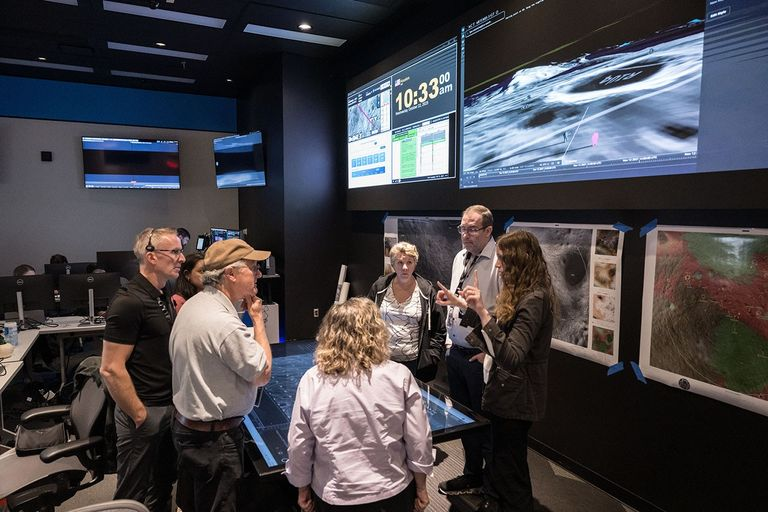
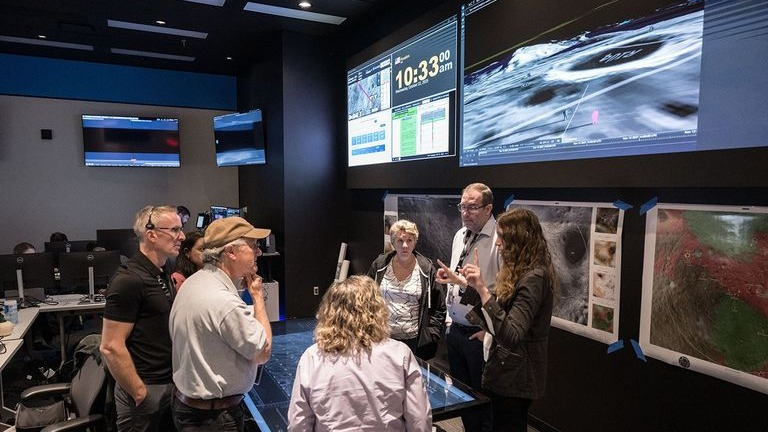
Added new people, linkedin button, buttons on front page slider, rounded overlay, fixed bio's

diff --git a/CSS/style.css b/CSS/style.css
@@ -1076,6 +1076,63 @@ ul {
     z-index: 1;
 }
 
+.hero-social {
+    position: absolute;
+    top: 20px;
+    left: 20px;
+    z-index: 3;
+    display: flex;
+    gap: 10px;
+    align-items: center;
+}
+
+.hero-social-link {
+    display: inline-flex;
+    align-items: center;
+    gap: 8px;
+    padding: 8px 12px;
+    border-radius: 999px;
+    background: rgba(0, 36, 84, 0.58);
+    border: 1px solid rgba(255, 255, 255, 0.18);
+    box-shadow: 0 10px 22px rgba(0, 0, 0, 0.14);
+    backdrop-filter: blur(8px);
+    -webkit-backdrop-filter: blur(8px);
+    color: var(--white);
+    text-decoration: none;
+    font-family: var(--font-display);
+    font-weight: 700;
+    font-size: 0.9rem;
+    line-height: 1;
+    transition: transform 0.2s ease, background 0.2s ease, border-color 0.2s ease;
+}
+
+.hero-social-link svg {
+    width: 16px;
+    height: 16px;
+    fill: currentColor;
+    flex: 0 0 auto;
+}
+
+.hero-social-link:hover,
+.hero-social-link:focus-visible {
+    transform: translateY(-1px);
+    background: rgba(0, 36, 84, 0.74);
+    border-color: rgba(255, 255, 255, 0.28);
+}
+
+.hero-social-link-donate {
+    display: none;
+    background: var(--nau-gold);
+    border-color: color-mix(in srgb, var(--nau-gold) 78%, var(--white));
+    color: var(--nau-blue);
+}
+
+.hero-social-link-donate:hover,
+.hero-social-link-donate:focus-visible {
+    background: color-mix(in srgb, var(--nau-gold) 86%, var(--white));
+    border-color: color-mix(in srgb, var(--nau-gold) 90%, var(--white));
+}
+
 .slide-content {
     position: absolute;
     bottom: 0;
@@ -1180,6 +1237,15 @@ ul {
         padding-bottom: 110px;
     }
 
+    .hero-social {
+        top: 14px;
+        left: 50%;
+        transform: translateX(-50%);
+        flex-wrap: wrap;
+        justify-content: center;
+        max-width: calc(100% - 32px);
+    }
+
     .slide-content .container {
         display: flex;
         justify-content: center;
@@ -1190,7 +1256,7 @@ ul {
         width: min(88vw, 720px);
         max-width: calc(100% - 32px);
         padding: 14px 20px 18px;
-        border-radius: 0 0 24px 24px;
+        border-radius: 24px;
         background: rgba(0, 36, 84, 0.52);
         text-align: center;
     }
@@ -1237,8 +1303,33 @@ ul {
     }
 
     .slide-content {
-        padding-top: 0;
+        padding-top: 60px;
         padding-bottom: 82px;
+    }
+
+    .hero-social {
+        top: 10px;
+        gap: 8px;
+        width: calc(100% - 16px);
+        justify-content: flex-start;
+        flex-wrap: wrap;
+        left: 8px;
+        transform: none;
+    }
+
+    .hero-social-link {
+        padding: 7px 10px;
+        font-size: 0.82rem;
+        gap: 6px;
+    }
+
+    .hero-social-link-donate {
+        display: inline-flex;
+    }
+
+    .hero-social-link svg {
+        width: 14px;
+        height: 14px;
     }
 
     .slide-content .container {
@@ -1249,7 +1340,7 @@ ul {
         width: calc(100% - 16px);
         max-width: none;
         padding: 10px 16px 12px;
-        border-radius: 0 0 20px 20px;
+        border-radius: 20px;
         background: linear-gradient(180deg, rgba(0, 36, 84, 0.76) 0%, rgba(0, 36, 84, 0.58) 100%);
         text-align: left;
         box-shadow: 0 10px 26px rgba(0, 0, 0, 0.16);
@@ -1289,6 +1380,16 @@ ul {
     .slider-btn {
         width: 46px;
         height: 46px;
+    }
+}
+
+@media (max-width: 430px) {
+    .slide-content {
+        padding-top: 76px;
+    }
+
+    .hero-social {
+        gap: 6px;
     }
 }
 

diff --git a/index.html b/index.html
@@ -40,6 +40,41 @@
             Static Image with no slide buttons
         -->
         <section class="hero" id="heroSlider">
+            <div class="hero-social" aria-label="Radiant social media links">
+                <a
+                    class="hero-social-link"
+                    href="https://www.facebook.com/profile.php?id=61573354411409"
+                    target="_blank"
+                    rel="noopener"
+                    aria-label="Radiant Facebook"
+                >
+                    <svg viewBox="0 0 24 24" aria-hidden="true">
+                        <path d="M13.5 21v-7h2.3l.4-3h-2.7V9.2c0-.9.3-1.5 1.6-1.5H16V5.1c-.5-.1-1.3-.1-2.3-.1-2.2 0-3.8 1.3-3.8 3.9V11H7.5v3h2.4v7h3.6z"></path>
+                    </svg>
+                    <span>Facebook</span>
+                </a>
+                <a
+                    class="hero-social-link"
+                    href="https://www.linkedin.com/company/radiant-center/"
+                    target="_blank"
+                    rel="noopener"
+                    aria-label="Radiant LinkedIn"
+                >
+                    <svg viewBox="0 0 24 24" aria-hidden="true">
+                        <path d="M6.94 8.5A1.72 1.72 0 1 1 6.93 5a1.72 1.72 0 0 1 0 3.44zM5.4 9.83h3.07V19H5.4V9.83zm4.92 0h2.94v1.25h.04c.41-.78 1.41-1.6 2.9-1.6 3.1 0 3.67 2.04 3.67 4.7V19H16.8v-4.25c0-1.01-.02-2.31-1.41-2.31-1.41 0-1.63 1.1-1.63 2.24V19h-3.44V9.83z"></path>
+                    </svg>
+                    <span>LinkedIn</span>
+                </a>
+                <a
+                    class="hero-social-link hero-social-link-donate"
+                    href="https://securelb.imodules.com/s/1898/giving19/form.aspx?sid=1898&gid=2&pgid=418&bledit=1&dids=4256"
+                    target="_blank"
+                    rel="noopener"
+                    aria-label="Donate to Radiant"
+                >
+                    <span>Donate</span>
+                </a>
+            </div>
             <div class="slide slide-1 active">
                 <div class="slide-bg-container">
                     <img src="Images/intro.jpg?v=2026-03-24-1" class="slide-bg-img" alt="Welcome To Radiant Center">

diff --git a/Contact_Us.html b/Contact_Us.html
@@ -78,6 +78,9 @@
                                     href="https://www.facebook.com/profile.php?id=61573354411409"
                                     target="_blank" rel="noopener">Facebook</a>
                                 <a class="btn btn-outline btn-outline-blue"
+                                    href="https://www.linkedin.com/company/radiant-center/"
+                                    target="_blank" rel="noopener">LinkedIn</a>
+                                <a class="btn btn-outline btn-outline-blue"
                                     href="https://directory.nau.edu/departments?id=11305"
                                     target="_blank" rel="noopener">Radiant NAU Directory</a>
                             </div>